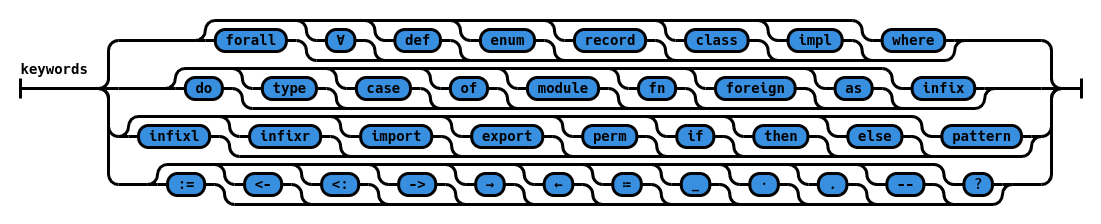
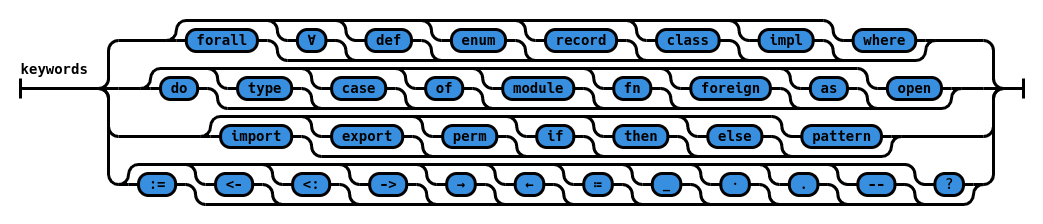
remove unused keywords

Changed region(s): [[0.0, 0.1562, 0.9818, 0.9375], [0.1534, 0.0625, 0.8897, 0.2812]]

diff --git a/railroad-diagrams.py b/railroad-diagrams.py
@@ -683,11 +683,9 @@ def zilch_keywords():
 			Terminal('fn'),
 			Terminal('foreign'),
 			Terminal('as'),
-			Terminal('infix')
+			Terminal('open')
 		),
 		HorizontalChoice(
-			Terminal('infixl'),
-			Terminal('infixr'),
 			Terminal('import'),
 			Terminal('export'),
 			Terminal('perm'),
@@ -1595,4 +1593,5 @@ def zilch_module_import():
 
 	return mk_diagram2('module-import', inner)
 
-zilch_module_import().writeSvg(sys.stdout.write)
+
+zilch_keywords().writeSvg(sys.stdout.write)
